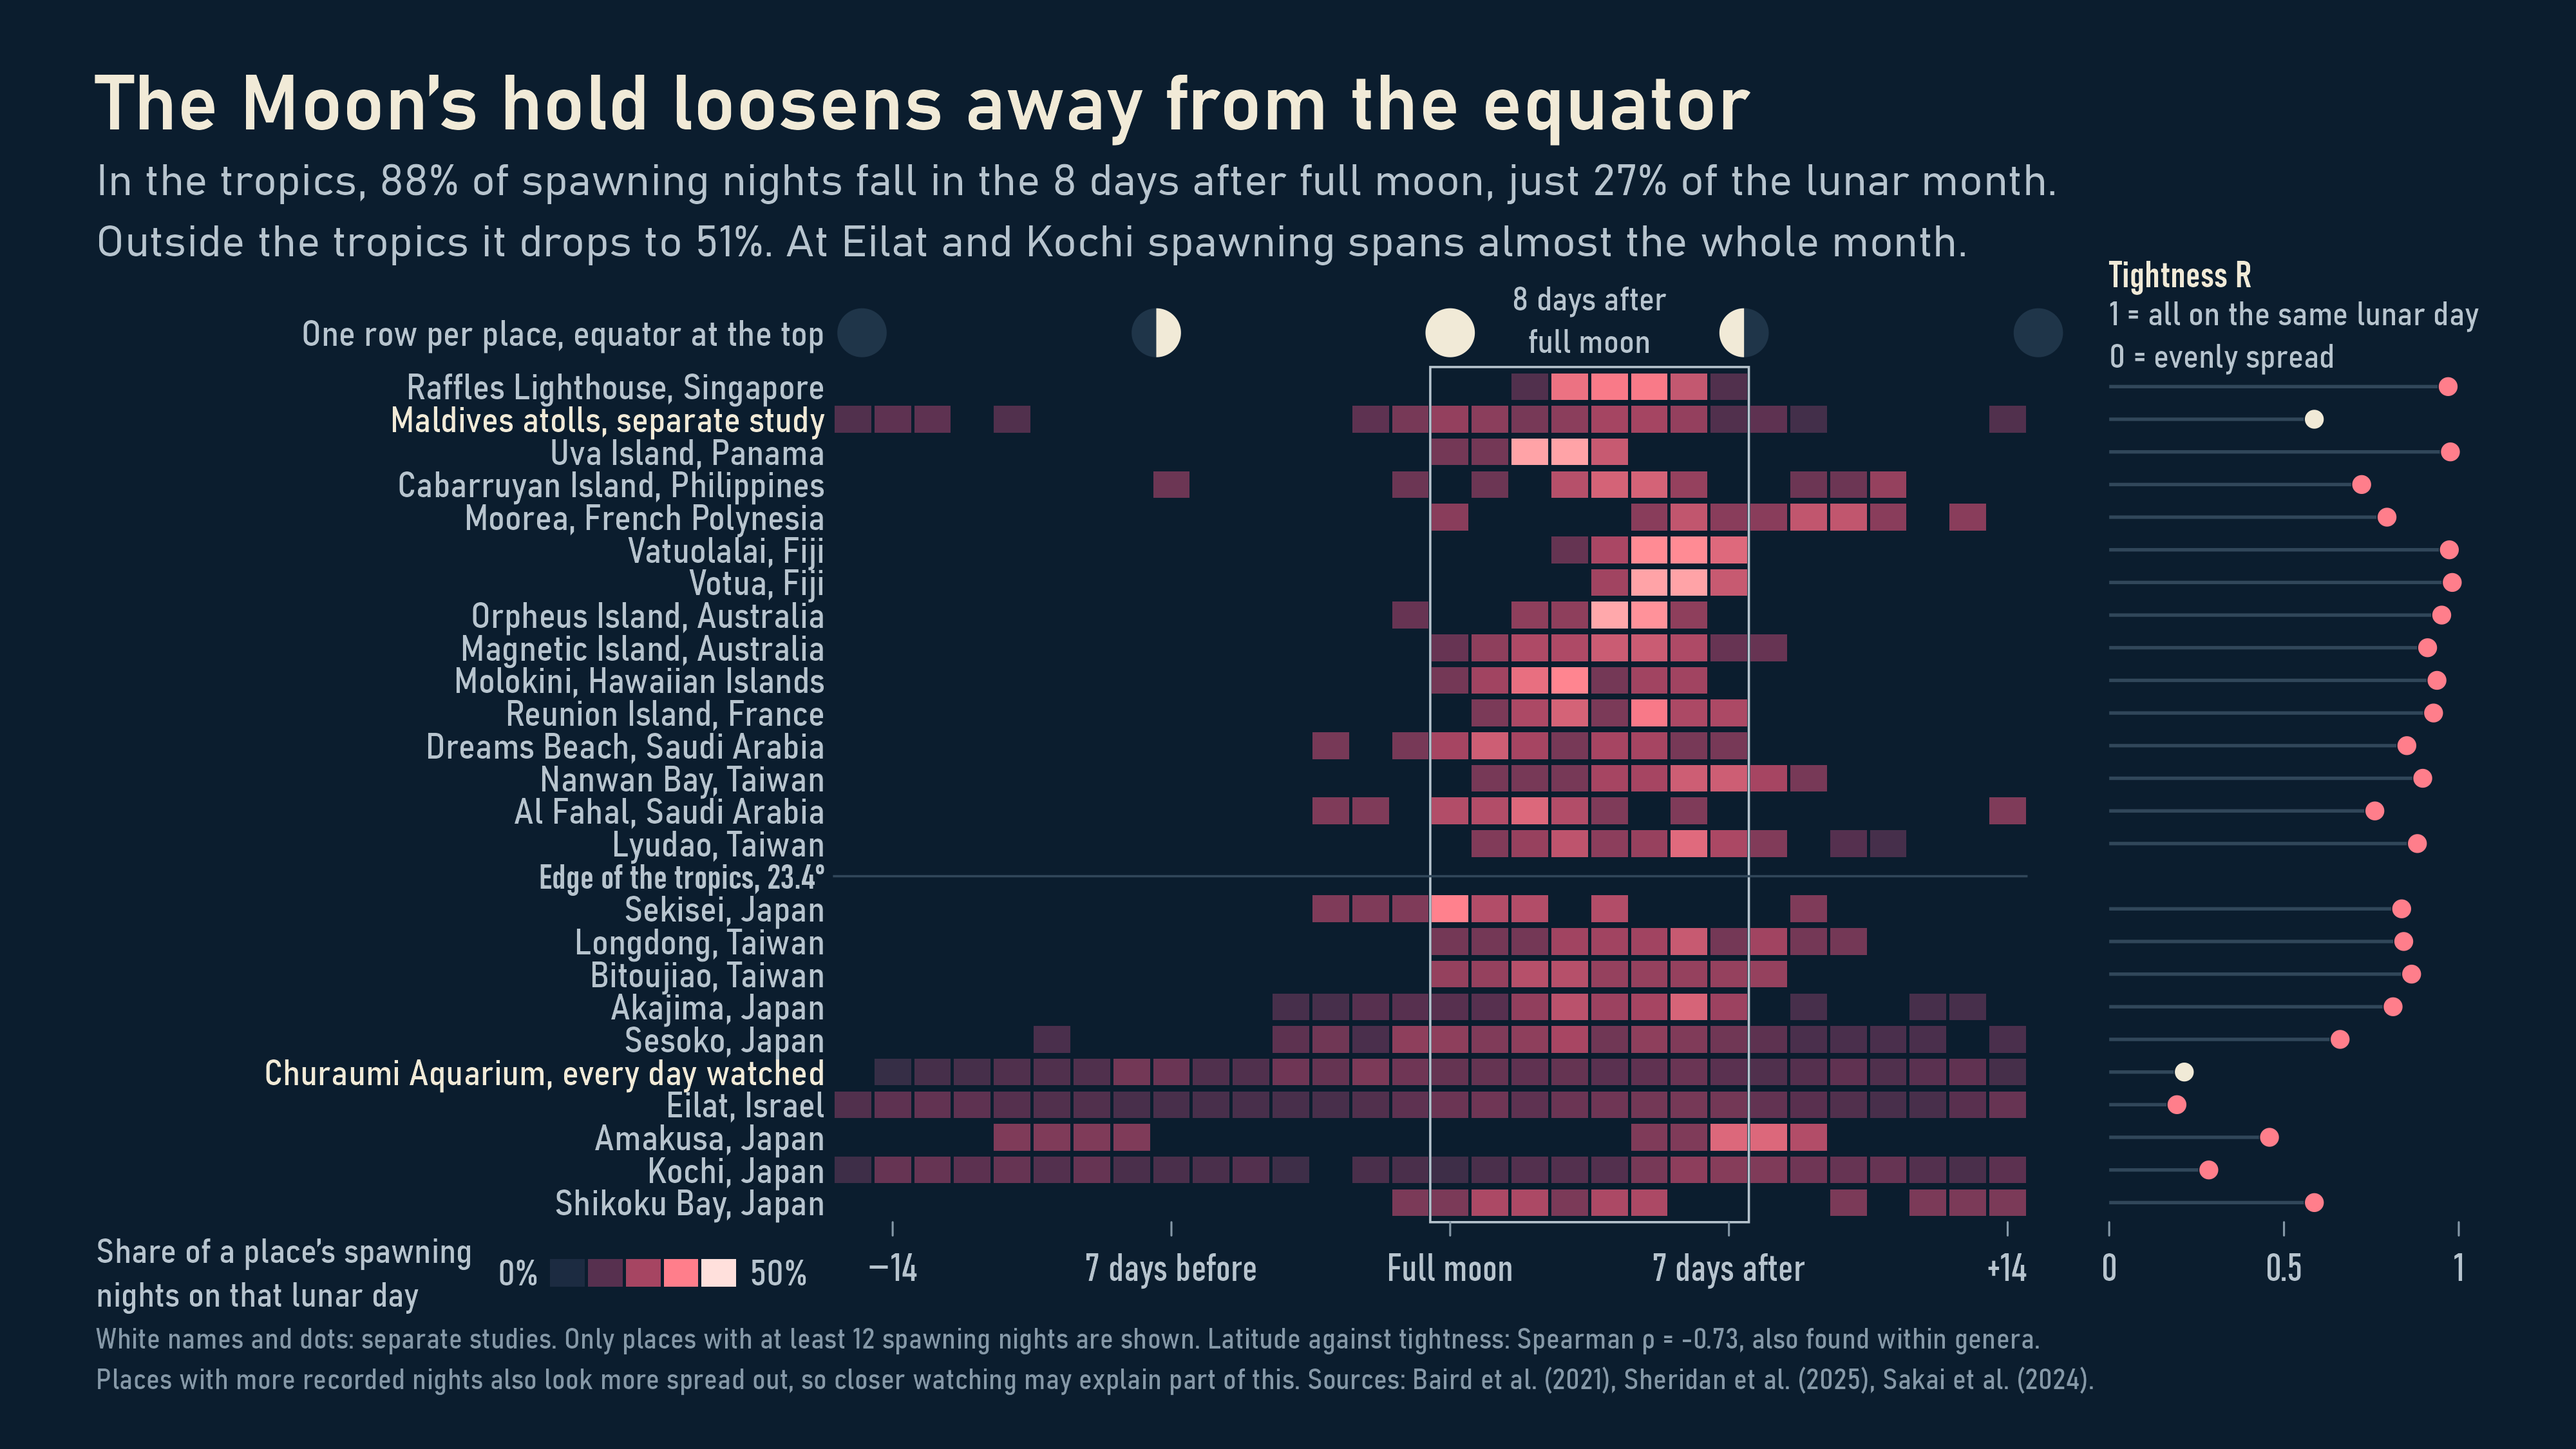
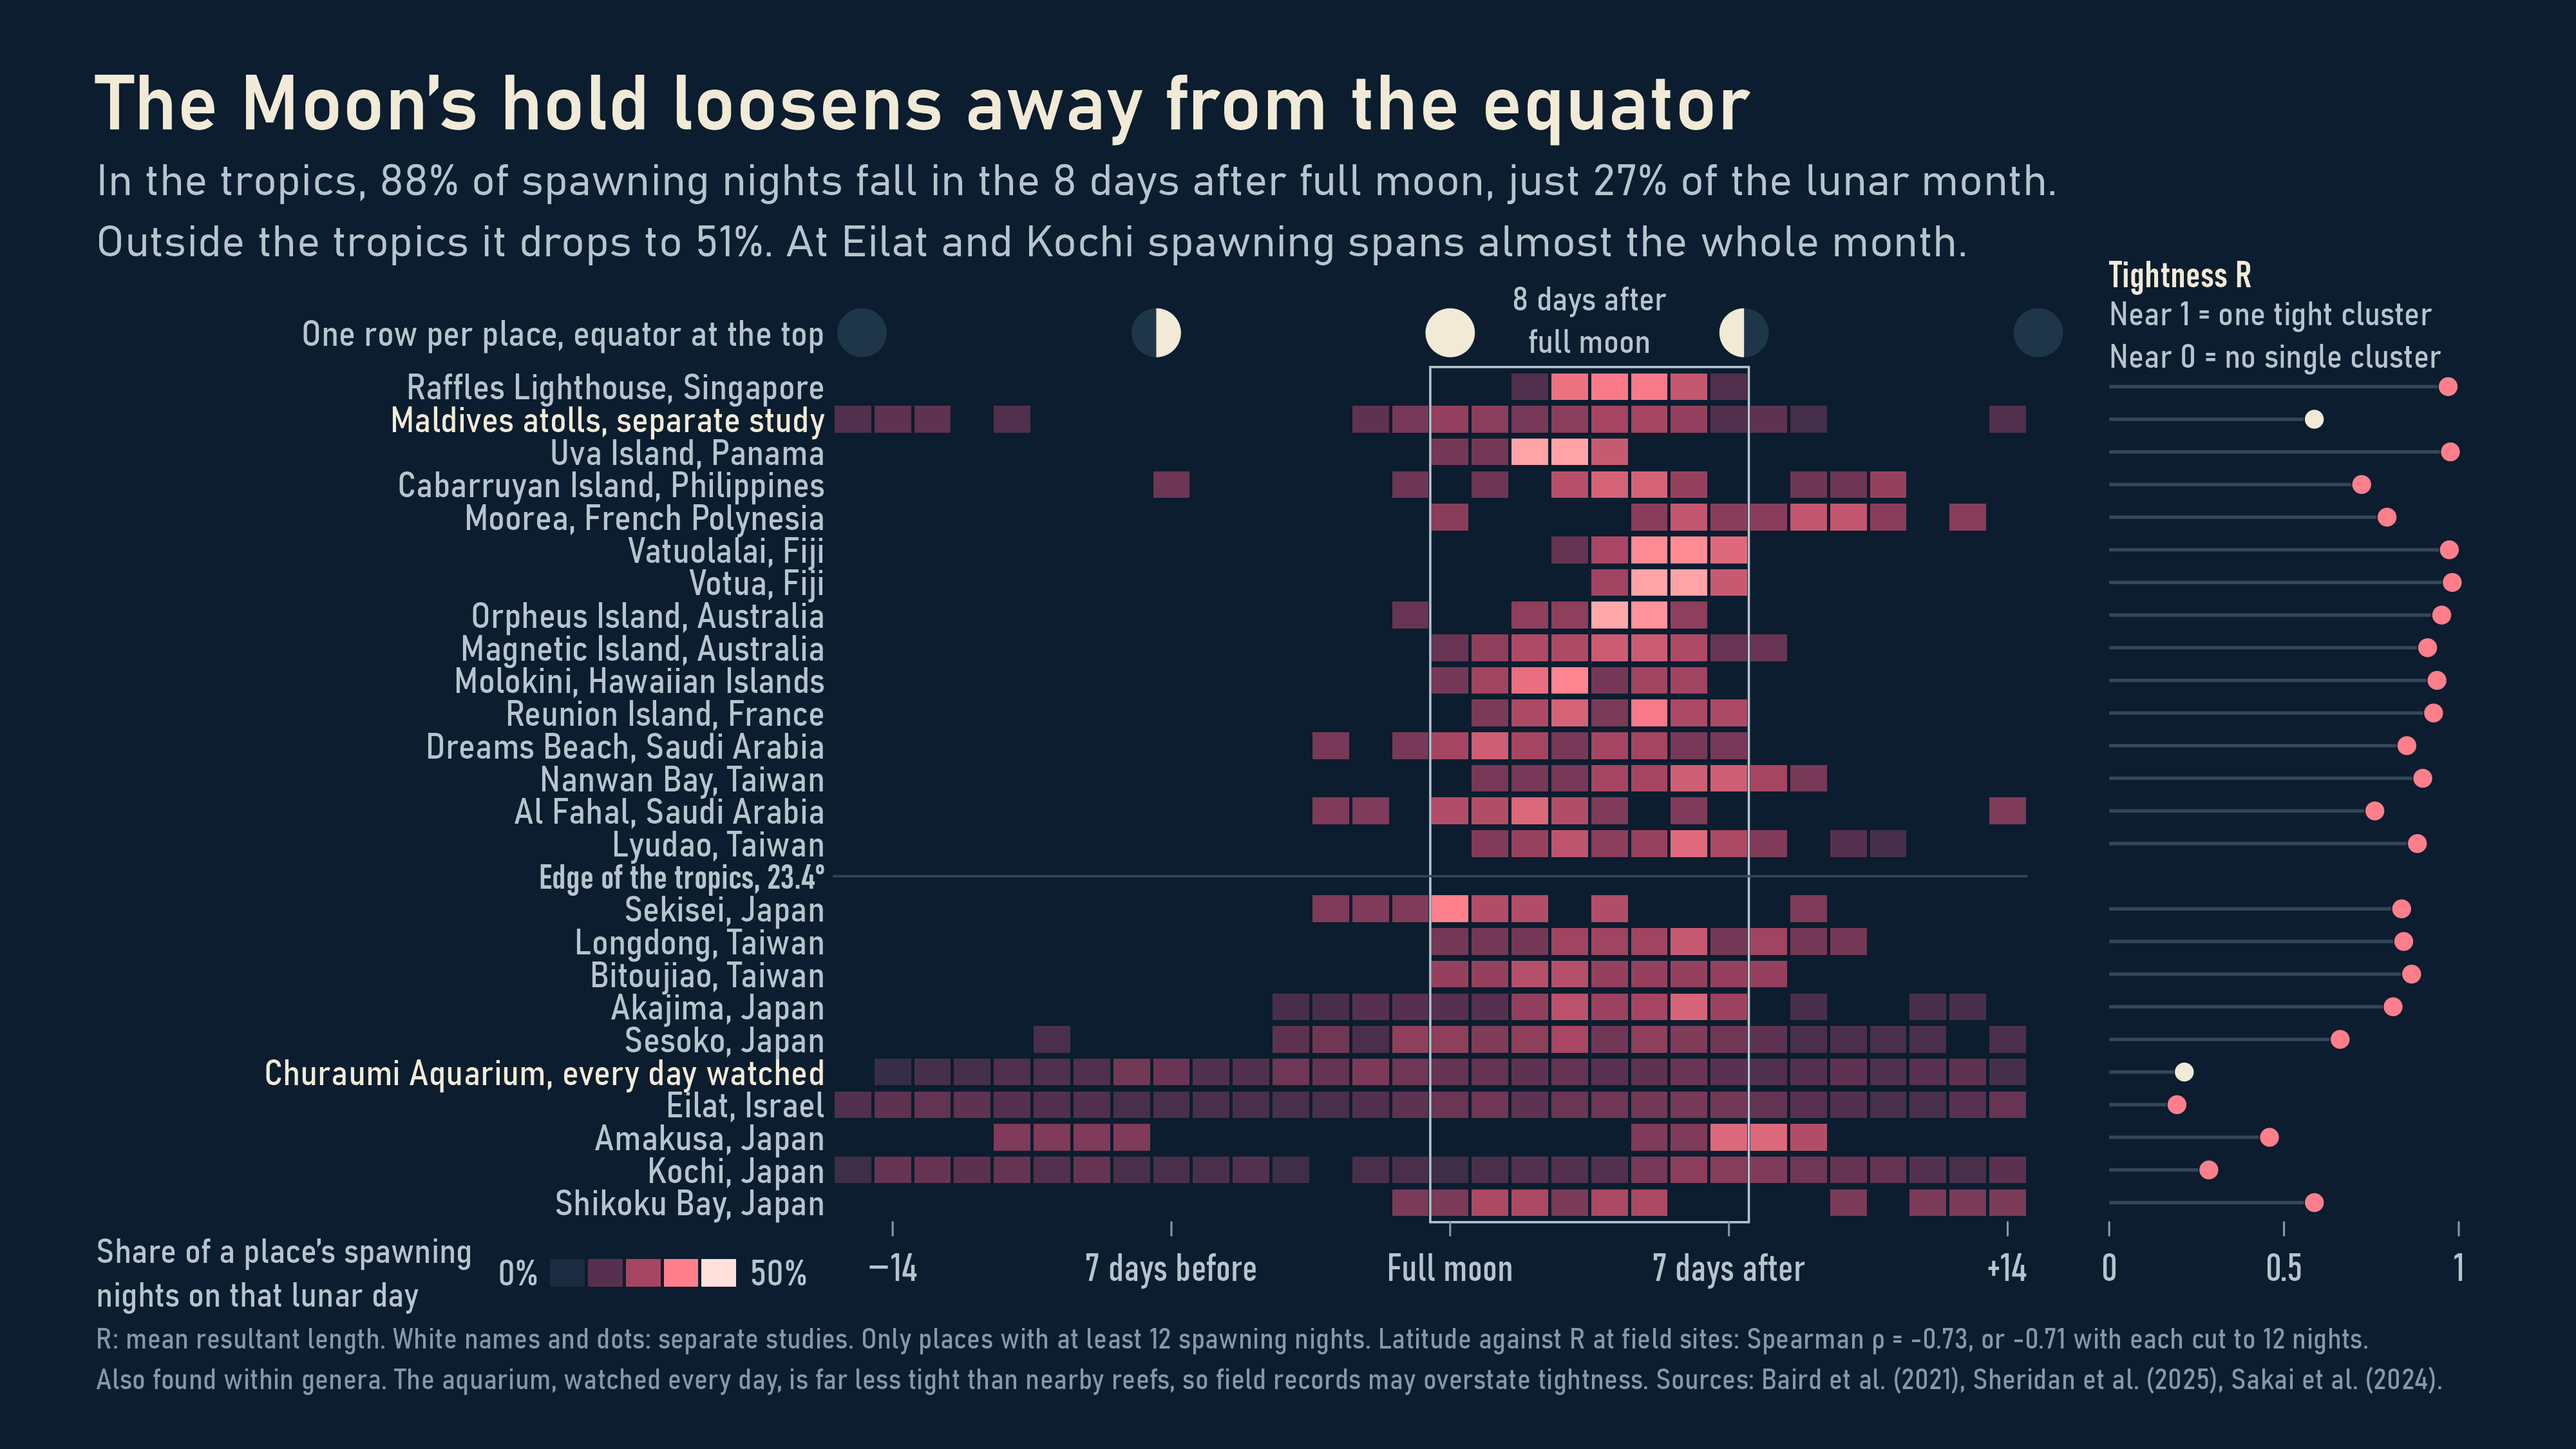
fix: make the R legend on plot 3 accurate and defendable
R does not know the box, so the key now says one tight cluster or no
single cluster. The caption names the mean resultant length, and the
weak effort sentence gives way to tested checks: every place cut to
12 nights, the box share as a second measure, and a rank version of
the effort model. Bootstrap intervals for R are saved in the tables.

Changed region(s): [[0.0312, 0.9022, 0.9375, 0.9644], [0.8125, 0.1867, 0.9688, 0.28]]

diff --git a/docs/PLOT_GUIDE.md b/docs/PLOT_GUIDE.md
@@ -24,11 +24,13 @@ Be ready for the survey question. Teams go looking when they expect spawning, so
 
 ## 3. The Moon
 
-Each row is one place, ordered from the equator at the top to 33° at the bottom. Each column is a day of the lunar month, and a brighter cell means more of that place's records fell on that day. The box marks the eight days from full moon. The strip on the right gives each place its tightness R: 1 means all on the same lunar day, 0 means evenly spread over the month.
+Each row is one place, ordered from the equator at the top to 33° at the bottom. Each column is a day of the lunar month, and a brighter cell means more of that place's records fell on that day. The box marks the eight days from full moon. The strip on the right gives each place its tightness R (the mean resultant length), measured over the whole lunar month without using the box. Near 1 means one tight cluster. Near 0 means no single cluster: the nights are spread out, or two clusters on opposite sides of the month cancel out. Exactly 1 would need every night on one lunar day, so Raffles Lighthouse reaches 0.97 with its nights on six different days.
+
+R is not a percentage and its scale is not even. It is an average of cosines, so it falls slowly while the nights stay close and faster as they spread: nights spread evenly over 3, 6, 8 and 15 days give about 0.98, 0.94, 0.89 and 0.63. Differences near the top of the strip are bigger than they look.
 
 Read downwards. Near the equator the records pile up inside the box. Past the edge of the tropics they spread out, and at Eilat and Kochi they cover almost the whole month. That is why the old headline of 68% was misleading: it is 88% inside the tropics and 51% beyond them.
 
-The honest caveat is on the plot. Places with more recorded nights also look looser, so part of this may come from watching more closely. Latitude still matters after allowing for that, and the pattern shows up within genera.
+The honest caveat is on the plot. These are records of when people looked. The aquarium, watched every day, has R = 0.21, while nearby Sesoko and Akajima have 0.66 and 0.81, so field records may overstate tightness. The latitude pattern itself survives the checks we can run: cutting every field site to 12 nights gives ρ = −0.71, the share in the box gives ρ = −0.66, and it shows up within genera. A 95% bootstrap interval for each place's R is in `outputs/tables/03_moon.csv`; it is wide for places with few nights, such as Amakusa.
 
 ## 4. The sky
 

diff --git a/docs/SCIENCE_REVIEW.md b/docs/SCIENCE_REVIEW.md
@@ -14,7 +14,7 @@ The separate Maldives dataset contains 81 spawning atoll-days and 3,026 colony o
 
 ## Three findings that change the reading
 
-The pooled 67.7% hides two groups. Inside the tropics 88% of reef-nights fall on days 0–7; beyond them 51% do. Across the 23 sites with at least 12 reef-nights, lunar tightness falls with absolute latitude (Spearman ρ = −0.73). The trend survives removing Eilat and Kochi (ρ = −0.66), appears within Acropora alone across 17 sites (ρ = −0.63) and holds for seven common genera. Eilat was already loose in 1981–82, so this is not a recent change there. Tightness also falls with the number of recorded nights after allowing for latitude (p = 0.004). Heavier monitoring may catch more off-peak nights, so effort probably explains part of the pattern. The Maldives study, at 5° N, is looser than database sites at similar latitudes, which fits that reading.
+The pooled 67.7% hides two groups. Inside the tropics 88% of reef-nights fall on days 0–7; beyond them 51% do. Across the 23 sites with at least 12 reef-nights, lunar tightness falls with absolute latitude (Spearman ρ = −0.73). The trend survives removing Eilat and Kochi (ρ = −0.66), appears within Acropora alone across 17 sites (ρ = −0.63) and holds for seven common genera. Eilat was already loose in 1981–82, so this is not a recent change there. Cutting every site to 12 reef-nights keeps it (median ρ = −0.71), and the share of nights in the eight-day box falls with latitude too (ρ = −0.66). Whether tightness falls with the number of recorded nights depends on the test: a linear model allowing for latitude says yes (p = 0.004), a rank version says no (p = 0.61). Equal sample sizes cannot correct for when people chose to look, and heavier monitoring may catch more off-peak nights. The aquarium, watched every day, has R = 0.21 against 0.66 and 0.81 at nearby Sesoko and Akajima, and the Maldives study, at 5° N, is looser than database sites at similar latitudes. Both fit that reading, so field records may overstate tightness.
 
 The aquarium, the one record with zero days written down, puts 32% of its spawning days on days 0–7, against 27% of the days watched. Moon-only forecasts do no better than the baseline. Either field records overstate the lunar peak because teams go out near full moon, or tanks dull the signal, or both. These data cannot separate those explanations.
 

diff --git a/outputs/RESULTS.md b/outputs/RESULTS.md
@@ -10,7 +10,7 @@ Calendar months cannot be compared across the equator, so each NOAA region gets 
 
 Of 1,026 recorded reef-nights, 67.7% fall in the eight days from full moon, where an even spread would give 27%. That single figure hides two groups. Inside the tropics the share is 88%; beyond them it is 51% ([plot 3](figures/03_moon.png)). Without Eilat and Kochi it rises to 83%.
 
-Across the 23 sites with at least 12 reef-nights, lunar tightness falls with distance from the equator (Spearman ρ = -0.73, p < 0.001). Seven common genera each look looser beyond 26°, and the trend holds with Eilat and Kochi removed and within Acropora alone. Sites with more recorded nights also look looser, even after allowing for latitude (p = 0.004), so heavier monitoring probably explains part of the pattern. This describes the records. It does not show why the Moon matters less at higher latitudes.
+Across the 23 sites with at least 12 reef-nights, lunar tightness falls with distance from the equator (Spearman ρ = -0.73, p < 0.001). Seven common genera each look looser beyond 26°, and the trend holds with Eilat and Kochi removed and within Acropora alone. The share of nights in the eight-day box falls with latitude too (ρ = -0.66), and cutting every site to 12 reef-nights leaves the pattern in place (median ρ = -0.71), so sample size alone does not explain it. Whether sites with more nights look looser depends on the test: a linear model allowing for latitude says yes (p = 0.004), a rank version says no (p = 0.61). Equal sample sizes cannot correct for when people chose to look. The aquarium, watched every day, has R = 0.21, against 0.66 at Sesoko and 0.81 at Akajima nearby, so field records may overstate tightness. This describes the records. It does not show why the Moon matters less at higher latitudes.
 
 For Acropora, 69.8% of 400 historical genus/reef-dates and 70.4% of 81 spawning atoll-days from a separate Maldives study fall in those eight days. The two studies use different units and are kept apart.
 
